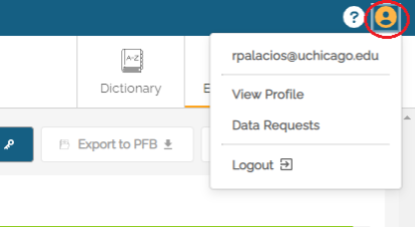
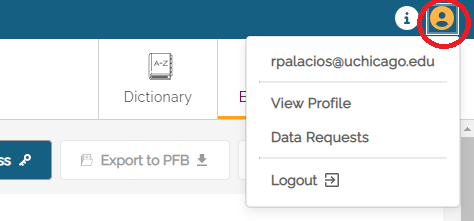
Changes related to release v1.8.2
Changes to User Guide
- Added the Note at the end of the Navigation section advising users how to change the text size.
- Added "Note" text to the Survival Curve section advising users that when editing currently selected filter sets, they must hit Apply to see the changes on the curve.
- Updated the screenshot in the User Menu section.
- Revised the documentation section with new screenshot and new text.

diff --git a/docs/DataPortalUserGuide.md b/docs/DataPortalUserGuide.md
@@ -1,7 +1,7 @@
 ![Logo](img/PcdcLogo.png)
 
 # Pediatric Cancer Data Commons<br> Data Portal User Guide
-###### v1.7.0 User Guide
+###### v1.8.2 User Guide
 ## Introduction
 
 The Pediatric Cancer Data Commons (PCDC) brings together clinical, genomic, and imaging data from institutions around the world that are working to transform pediatric cancer research and outcomes. Headquartered at the University of Chicago, the PCDC works with international leaders in pediatric cancers and the US National Cancer Institute to develop and apply uniform data standards, facilitating the collection, combination, and analysis of data from many different sources. 
@@ -42,6 +42,11 @@ The main navigation buttons to PCDC Data Portal pages are in the upper right-han
 - Query
 
 Profile settings can be accessed by clicking the username at the top of the page. See the [Profile section](#user-menu) below.
+
+Note: to change the magnification of text, access the browser controls and use the zoom function to increase or decrease the font size. The screenshot below shows the zoom control in the Chrome browser.
+
+![Zoom](img/Chrome_zoom_control.png)
+
 
 ### Dictionary
 
@@ -224,7 +229,7 @@ Use the drop down labeled “Select Filter Set to Analyze” to select a saved f
 
 ![Survival Analysis](img/image38.png)
 
-Once selected, users can see the survival curve by hitting the **Apply** button at the bottom of the screen. 
+Once selected, users can see the survival curve by hitting the **Apply** button at the bottom of the screen. Note: When changes are made to filter sets that are currently selected for the Survival curve, users must hit the Apply button after editing to see the changes reflected in the curve. 
 
 Multiple data sets can be selected and shown simultaneously. In the example below, two data sets are used: one for male and one for female participants. 
 
@@ -266,9 +271,9 @@ Only users who are authorized to receive requested data will see the Download Da
 ![Data Requests](img/image19.png)
 
 ### Documentation
-![Documents Menu](img/documents_menu.png)
+![Documentation Menu](img/Documentation_menu.png)
 
-The Documents menu allows users to access reference documents related to the Data Portal such as the _Privacy Notice_ and _Terms and Conditions_. Additional documents will be added in the future. All documents can also be accessed at the [PCDC Documentation site](https://docs.pedscommons.org/).
+The Documentation menu allows users to access reference documents related to the Data Portal such as the _Privacy Notice_ and _Terms and Conditions_. Clicking on any of the documents in the list will redirect users to the [PCDC Documentation site](https://docs.pedscommons.org/).
 
 
 
